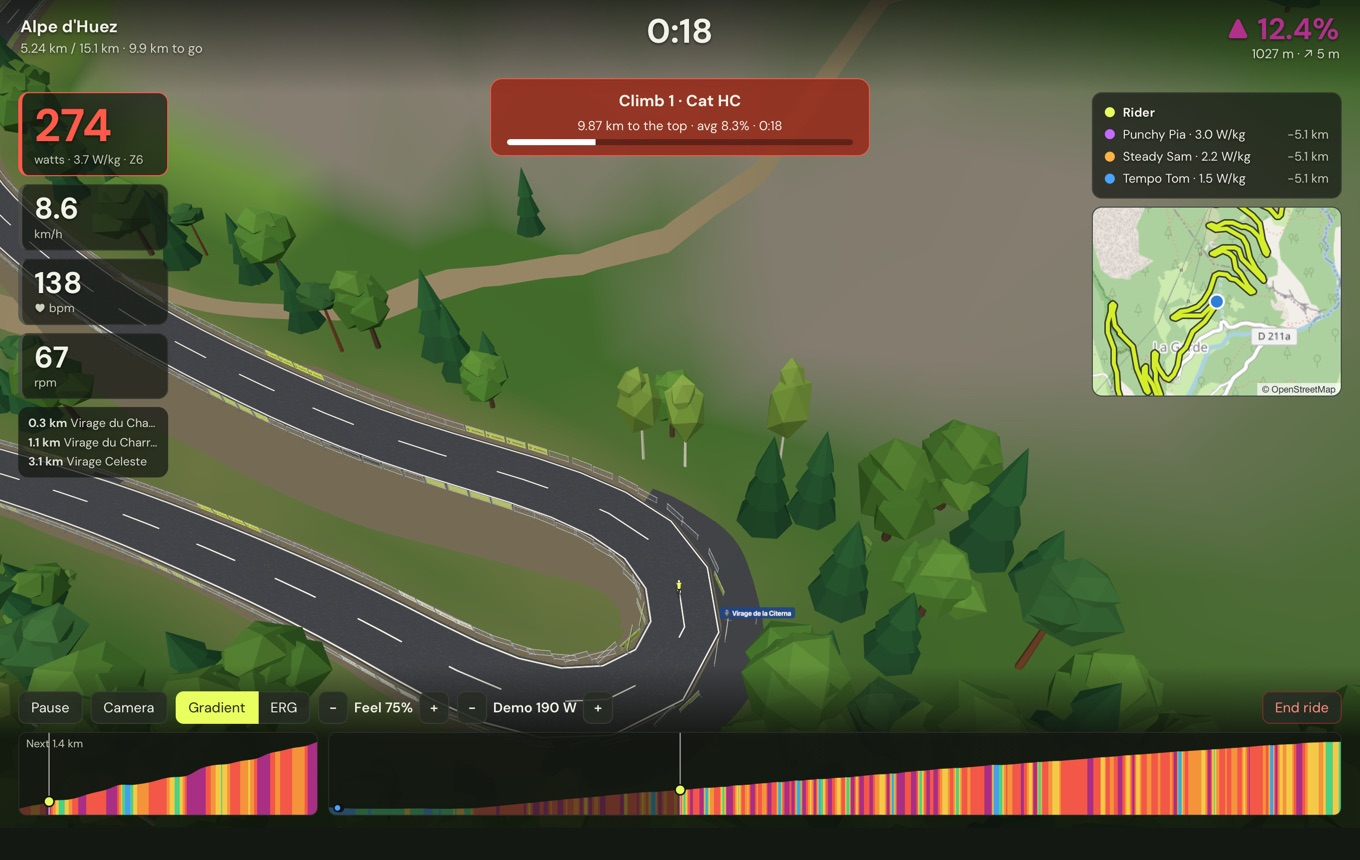
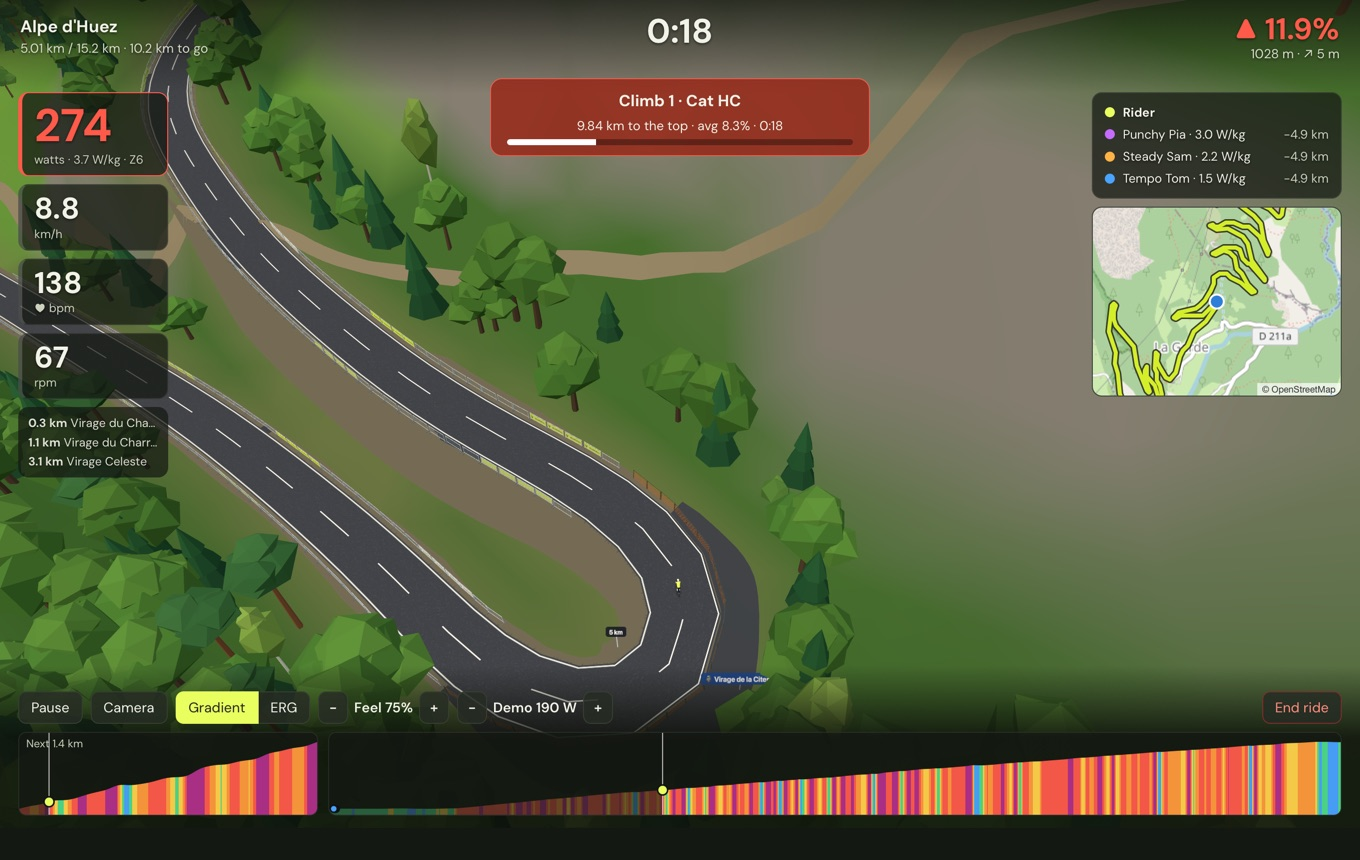
Release v0.3.8 (#64)
## What and why

Version 0.3.8: a netting fence round the outside of hairpins, in place
of the barrier sections that fanned apart and piled up there.

- **Hairpin fence** (`world/barriers.rs`). Rigid 2.5 m sections can't
follow a tight bend: on the outside they fanned apart and on the inside
they overlapped. Round a bend tighter than 30 m radius (measured over 4
m either side, so a single kink in the map doesn't count, and extended 5
m into the entry and exit) there are now no sections on either side.
Instead, 2 m panels of orange diamond netting on posts are laid evenly
along the outside edge, so neighbours meet end to end. Where one tight
bend runs straight into another the other way, the two fences meet
halfway. The fence is one more barrier look (`FENCE`), so both renderers
draw it with no changes.
- **Test:** `hairpins_get_a_fence_round_the_outside` builds a hairpin
and checks that the fence is only round the bend and only on its
outside, clear of the tarmac, with panels meeting end to end, that the
straights keep their barriers, and that the model stays inside its 2 m
panel.
- **Release:** version bumped in `package.json` (and its lockfile's two
version fields), `tauri.conf.json`, the three `Cargo.toml`s and
`Cargo.lock`, the Arch `PKGBUILD` and HANDOFF's status heading. *What's
new* in `packaging/RELEASE_NOTES.md` rewritten, and HANDOFF notes how
the fence is placed.
- **The overhead hairpins picture is retaken from 0.3.8.** It shows the
[…]

diff --git a/crates/core/src/world/barriers.rs b/crates/core/src/world/barriers.rs
@@ -6,6 +6,10 @@
 //! every `SECTION_M` along each side; the renderers draw the ones near the rider. Like a
 //! real one, each section is a rigid frame standing on its feet at both ends, so on a hill
 //! it leans with the road, and neighbours meet at the same height.
+//!
+//! Rigid sections can't follow a hairpin: on the outside they fan apart and on the inside
+//! they pile into each other. So round a tight bend there are none on either side, and a
+//! netting fence runs round the outside instead, panel by panel along the outside edge.
 
 use super::mesh::TriMesh;
 use super::{World, OPEN, ROAD_LIFT};
@@ -19,7 +23,19 @@ const SET_BACK: f64 = 0.55;
 
 /// Banner colours (sRGB), in the order of `look` 1, 2, 3, 4: the website's lime, paper, olive and pale lime.
 pub const BANNER_COLOURS: [[f64; 3]; 4] = [[0.914, 1.0, 0.376], [0.969, 0.969, 0.937], [0.667, 0.737, 0.314], [0.855, 0.910, 0.455]];
-pub const LOOKS: usize = 1 + BANNER_COLOURS.len();
+/// The look of a netting fence panel, the last one.
+pub const FENCE: usize = 1 + BANNER_COLOURS.len();
+pub const LOOKS: usize = FENCE + 1;
+
+/// A bend tighter than this radius (metres, at the centre line) gets a fence, not barriers.
+const TIGHT_RADIUS_M: f64 = 30.0;
+/// The bend is measured over this far either side, so a single kink in the map isn't one.
+const BEND_WINDOW_M: f64 = 4.0;
+/// The fence runs on this far beyond where the bend is tight, into its entry and exit.
+const BEND_MARGIN_M: f64 = 5.0;
+/// Length and height of one fence panel.
+const PANEL_M: f64 = 2.0;
+const FENCE_HEIGHT: f64 = 1.4;
 
 fn linear(c: [f64; 3]) -> [f32; 3] {
     c.map(|v| v.powf(2.2) as f32)
@@ -49,8 +65,12 @@ fn cuboid(mesh: &mut TriMesh, lo: [f64; 3], hi: [f64; 3], colour: [f32; 3]) {
 
 /// One barrier section in its own frame: centred on the origin, standing on y = 0, running
 /// along z, with the road on its −x side. `look` 0 is plain steel; 1… carry a banner facing
-/// the road, textured from the banner texture (white with the event name in grey) and tinted.
+/// the road, textured from the banner texture (white with the event name in grey) and tinted;
+/// `FENCE` is a panel of netting fence.
 pub fn barrier_model(look: usize) -> TriMesh {
+    if look == FENCE {
+        return fence_model();
+    }
     let mut m = TriMesh::default();
     let steel = linear([0.74, 0.76, 0.78]);
     let dark = linear([0.42, 0.44, 0.46]);
@@ -84,22 +104,171 @@ pub fn barrier_model(look: usize) -> TriMesh {
     m
 }
 
+/// One panel of netting fence, `PANEL_M` long: a post at each end, a top rail, and orange
+/// diamond netting between, seen from both sides.
+fn fence_model() -> TriMesh {
+    let mut m = TriMesh::default();
+    let post = linear([0.30, 0.33, 0.30]);
+    let net = linear([0.96, 0.45, 0.12]);
+    let half = PANEL_M / 2.0;
+    // Posts set in a little from each end, so where two panels meet their posts stand side by side.
+    for z in [-half + 0.04, half - 0.04] {
+        cuboid(&mut m, [-0.03, 0.0, z - 0.03], [0.03, FENCE_HEIGHT, z + 0.03], post);
+    }
+    cuboid(&mut m, [-0.018, FENCE_HEIGHT - 0.05, -half], [0.018, FENCE_HEIGHT - 0.014, half], post);
+    // The netting: two sets of diagonal strands, crossing in diamonds.
+    let (y0, y1, x) = (0.08, FENCE_HEIGHT - 0.05, -0.035);
+    let (gap, width) = (0.25, 0.024);
+    let mut strand = |a: [f64; 2], b: [f64; 2]| {
+        // a and b are (z, y); the strand is a thin flat ribbon between them.
+        let (dz, dy) = (b[0] - a[0], b[1] - a[1]);
+        let len = dz.hypot(dy);
+        let (nz, ny) = (-dy / len * width / 2.0, dz / len * width / 2.0);
+        for (x, facing) in [(x, -1.0), (x + 0.003, 1.0)] {
+            let p = [[x, a[1] + ny, a[0] + nz], [x, b[1] + ny, b[0] + nz], [x, b[1] - ny, b[0] - nz], [x, a[1] - ny, a[0] - nz]];
+            m.triangle([p[0], p[1], p[2]], [facing, 0.0, 0.0], [net; 3], [WHITE; 3]);
+            m.triangle([p[0], p[2], p[3]], [facing, 0.0, 0.0], [net; 3], [WHITE; 3]);
+        }
+    };
+    for slope in [1.0, -1.0] {
+        // Strands z = start + slope·(y − y0), for starts every `gap` along the panel and beyond it,
+        // clipped to the panel.
+        let mut start = -half - (y1 - y0);
+        while start < half + (y1 - y0) {
+            // The heights at which the strand reaches the two ends of the panel (less its width,
+            // so it stays within them).
+            let end = half - width;
+            let (ya, yb) = (y0 + (-end - start) / slope, y0 + (end - start) / slope);
+            let (lo, hi) = (ya.min(yb).max(y0), ya.max(yb).min(y1));
+            if hi - lo > 0.02 {
+                strand([start + slope * (lo - y0), lo], [start + slope * (hi - y0), hi]);
+            }
+            start += gap;
+        }
+    }
+    m
+}
+
+/// A stretch of road bending tighter than `TIGHT_RADIUS_M`, from and to metres along the
+/// route, with the side of its outside (1 is the route's right, as in `barriers`).
+struct Bend {
+    from: f64,
+    to: f64,
+    side: f64,
+}
+
 impl World {
+    /// The route's direction at sample `i`, smoothed over a couple of metres either way.
+    fn heading_at(&self, i: usize) -> (f64, f64) {
+        let r = &self.route;
+        let w = ((2.0 / r.step).round() as usize).max(1);
+        let (a, b) = (i.saturating_sub(w), (i + w).min(r.n - 1));
+        let (tx, tz) = (r.x[b] - r.x[a], r.z[b] - r.z[a]);
+        let len = tx.hypot(tz).max(1e-9);
+        (tx / len, tz / len)
+    }
+
+    /// The route's tight bends, in order along it.
+    fn tight_bends(&self) -> Vec<Bend> {
+        let r = &self.route;
+        let w = ((BEND_WINDOW_M / r.step).round() as usize).max(1);
+        let span = w as f64 * r.step;
+        let mut bends: Vec<Bend> = Vec::new();
+        for i in w..r.n.saturating_sub(w) {
+            let (tx, tz) = self.heading_at(i);
+            let curvature = ((r.x[i + w] - 2.0 * r.x[i] + r.x[i - w]) * tz - (r.z[i + w] - 2.0 * r.z[i] + r.z[i - w]) * tx) / (span * span);
+            if curvature.abs() * TIGHT_RADIUS_M < 1.0 {
+                continue;
+            }
+            let (d, side) = (i as f64 * r.step, -curvature.signum());
+            match bends.last_mut() {
+                Some(b) if b.side == side && d - BEND_MARGIN_M <= b.to => b.to = d + BEND_MARGIN_M,
+                _ => bends.push(Bend { from: (d - BEND_MARGIN_M).max(0.0), to: (d + BEND_MARGIN_M).min(r.total), side }),
+            }
+        }
+        // Where one bend runs straight into another the other way, they meet halfway, so neither
+        // fence reaches round the inside of the next bend.
+        for k in 1..bends.len() {
+            if bends[k].from < bends[k - 1].to {
+                let mid = (bends[k].from + bends[k - 1].to) / 2.0;
+                bends[k - 1].to = mid;
+                bends[k].from = mid;
+            }
+        }
+        bends
+    }
+
+    /// Netting fence panels round the outside of `bend`, as `barriers` gives them.
+    fn bend_fence(&self, bend: &Bend, blocked: &impl Fn(usize) -> bool, out: &mut Vec<[f32; 7]>) {
+        let r = &self.route;
+        // The outside edge every half metre (x, y, z, distance along the route), broken where
+        // the road has its own sides or is a trail.
+        let mut runs: Vec<Vec<[f64; 4]>> = vec![Vec::new()];
+        let mut d = bend.from;
+        while d <= bend.to {
+            let i = ((d / r.step).round() as usize).min(r.n - 1);
+            if blocked(i) {
+                if runs.last().is_some_and(|run| !run.is_empty()) {
+                    runs.push(Vec::new());
+                }
+            } else {
+                let (tx, tz) = self.heading_at(i);
+                let p = r.sample_at(d);
+                let off = bend.side * (self.half_width(i) + SET_BACK);
+                runs.last_mut().unwrap().push([p.x + tz * off, p.ele + ROAD_LIFT - 0.12, p.z - tx * off, d]);
+            }
+            d += 0.5;
+        }
+        for run in runs.iter().filter(|run| run.len() >= 2) {
+            // Distance along the edge at each point, and the point that far along it.
+            let mut along = vec![0.0];
+            for w in run.windows(2) {
+                along.push(along.last().unwrap() + (w[1][0] - w[0][0]).hypot(w[1][2] - w[0][2]));
+            }
+            let length = *along.last().unwrap();
+            let at = |s: f64| {
+                let k = along.partition_point(|&a| a < s).clamp(1, run.len() - 1);
+                let t = ((s - along[k - 1]) / (along[k] - along[k - 1]).max(1e-9)).clamp(0.0, 1.0);
+                std::array::from_fn::<f64, 4, _>(|c| run[k - 1][c] + (run[k][c] - run[k - 1][c]) * t)
+            };
+            if length < 1.0 {
+                continue;
+            }
+            // Panels evenly spaced along the edge, a whole number of them, so neighbours meet
+            // to within a few centimetres.
+            let panels = (length / PANEL_M).round().max(1.0) as usize;
+            let spacing = length / panels as f64;
+            for k in 0..panels {
+                let mid = (k as f64 + 0.5) * spacing;
+                let (a, b) = (at(mid - PANEL_M / 2.0), at(mid + PANEL_M / 2.0));
+                let (dx, dy, dz) = (b[0] - a[0], b[1] - a[1], b[2] - a[2]);
+                let climb = dy.atan2(dx.hypot(dz).max(1e-9));
+                let yaw = dx.atan2(dz) + if bend.side > 0.0 { 0.0 } else { std::f64::consts::PI };
+                let pitch = if bend.side > 0.0 { -climb } else { climb };
+                let c = std::array::from_fn::<f64, 4, _>(|i| (a[i] + b[i]) / 2.0);
+                out.push([c[0] as f32, c[1] as f32, c[2] as f32, yaw as f32, c[3] as f32, FENCE as f32, pitch as f32]);
+            }
+        }
+    }
+
     /// Barrier sections along both sides of the route, nearest first along it:
     /// `[x, y, z, yaw, distance along the route, look, pitch]` each, where the model is
     /// tipped by `pitch` about its own x axis (Three.js's sense: positive lowers its +z end)
     /// before being turned by `yaw`. None on bridges (they have parapets) or in tunnels, nor
-    /// on the inside of a bend too tight to stand them.
+    /// on the inside of a bend too tight to stand them; round a tight bend, fence panels
+    /// (look `FENCE`) on the outside instead.
     pub fn barriers(&self) -> Vec<[f32; 7]> {
         let r = &self.route;
         let kinds = self.field.kinds();
+        let blocked = |i: usize| kinds.get(i).is_some_and(|&kind| kind != OPEN) || self.scene.trails.get(i).is_some_and(Option::is_some);
+        let bends = self.tight_bends();
         let mut out = Vec::new();
         let count = ((r.total - 8.0) / SECTION_M).floor().max(0.0) as usize;
         for k in 0..count {
             let d = 4.0 + (k as f64 + 0.5) * SECTION_M;
             let i = ((d / r.step).round() as usize).min(r.n - 1);
             // None on bridges and in tunnels (they have their own sides), nor along a trail.
-            if kinds.get(i).is_some_and(|&kind| kind != OPEN) || self.scene.trails.get(i).is_some_and(Option::is_some) {
+            if blocked(i) || bends.iter().any(|b| d + LENGTH / 2.0 > b.from && d - LENGTH / 2.0 < b.to) {
                 continue;
             }
             let (a, b) = (i.saturating_sub(1), (i + 1).min(r.n - 1));
@@ -132,6 +301,10 @@ impl World {
                 out.push([x as f32, y as f32, z as f32, yaw as f32, d as f32, look as f32, pitch as f32]);
             }
         }
+        for bend in &bends {
+            self.bend_fence(bend, &blocked, &mut out);
+        }
+        out.sort_by(|a, b| a[4].total_cmp(&b[4]));
         out
     }
 }

diff --git a/crates/core/tests/core.rs b/crates/core/tests/core.rs
@@ -486,6 +486,59 @@ fn hairpin_ground_never_buries_the_lower_arm() {
     }
 }
 
+#[test]
+fn hairpins_get_a_fence_round_the_outside() {
+    use velopopuli_core::world::{barrier_model, BARRIER_FENCE};
+    // North for 300 m, a U-turn of 12 m radius, and back south: a hairpin.
+    let m_lon = M_PER_DEG * 45f64.to_radians().cos();
+    let at = |x: f64, z: f64| RawPoint { lat: 45.0 + z / M_PER_DEG, lon: 7.0 + x / m_lon, ele: Some(100.0) };
+    let mut pts: Vec<RawPoint> = (0..=30).map(|i| at(0.0, i as f64 * 10.0)).collect();
+    pts.extend((1..12).map(|k| {
+        let a = std::f64::consts::PI * k as f64 / 12.0;
+        at(12.0 - 12.0 * a.cos(), 300.0 + 12.0 * a.sin())
+    }));
+    pts.extend((0..=30).map(|i| at(24.0, 300.0 - i as f64 * 10.0)));
+    let route = Arc::new(build_route("hairpin", &pts).unwrap());
+    let world = World::new(route.clone(), None, 0.0);
+    let b = world.barriers();
+    assert!(b.windows(2).all(|w| w[0][4] <= w[1][4]));
+    let fence: Vec<_> = b.iter().filter(|s| s[5] as usize == BARRIER_FENCE).collect();
+    // Only round the bend (about 300 to 340 m along), none on the straights.
+    assert!(fence.len() >= 20, "{}", fence.len());
+    assert!(fence.iter().all(|s| s[4] > 280.0 && s[4] < 360.0), "{:?}", fence.iter().map(|s| s[4]).collect::<Vec<_>>());
+    // No rigid sections at the apex of the bend.
+    assert!(!b.iter().any(|s| s[5] as usize != BARRIER_FENCE && s[4] > 305.0 && s[4] < 335.0));
+    // Straights still have their barriers on both sides.
+    assert!(b.iter().filter(|s| s[4] > 100.0 && s[4] < 200.0).count() >= 70);
+    // Every panel is clear of the road, and on the outside: farther from the middle of the
+    // bend than the nearest bit of road is.
+    let arc: Vec<usize> = (0..route.n).filter(|&i| (i as f64 * route.step - 320.0).abs() < 20.0).collect();
+    let (cx, cz) = (arc.iter().map(|&i| route.x[i]).sum::<f64>() / arc.len() as f64, arc.iter().map(|&i| route.z[i]).sum::<f64>() / arc.len() as f64);
+    for s in fence.iter() {
+        let (x, z) = (s[0] as f64, s[2] as f64);
+        let near = (0..route.n).min_by(|&a, &b| (route.x[a] - x).hypot(route.z[a] - z).total_cmp(&(route.x[b] - x).hypot(route.z[b] - z))).unwrap();
+        let clear = (route.x[near] - x).hypot(route.z[near] - z);
+        assert!(clear > world.half_width(near) + 0.15, "panel at {} only {clear} m from the road", s[4]);
+        if (305.0..335.0).contains(&s[4]) {
+            assert!((x - cx).hypot(z - cz) > (route.x[near] - cx).hypot(route.z[near] - cz), "panel at {} is inside the bend", s[4]);
+        }
+    }
+    let ends = |s: &[f32; 7]| {
+        let (half, yaw) = (1.0f64, s[3] as f64);
+        [-half, half].map(|z| (s[0] as f64 + z * yaw.sin(), s[2] as f64 + z * yaw.cos()))
+    };
+    // Neighbouring panels meet end to end, with no gap and no pile-up.
+    for w in fence.windows(2) {
+        let (a, b) = (ends(w[0]), ends(w[1]));
+        let gap = [a[0], a[1]].iter().flat_map(|p| [b[0], b[1]].map(|q| (p.0 - q.0).hypot(p.1 - q.1))).fold(f64::MAX, f64::min);
+        assert!(gap < 0.15, "{gap} between panels at {} and {}", w[0][4], w[1][4]);
+    }
+    // The fence's model: posts and netting, standing on the ground, 2 m long.
+    let m = barrier_model(BARRIER_FENCE);
+    assert!(m.vertices() > 300);
+    assert!(m.positions.chunks(3).all(|p| p[1] >= 0.0 && p[1] <= 1.41 && p[2].abs() <= 1.0 + 1e-6));
+}
+
 mod buildings {
     use super::*;
     use velopopuli_core::world::{overpass_query, parse_overpass, Footprint};

diff --git a/crates/core/src/world/mod.rs b/crates/core/src/world/mod.rs
@@ -18,7 +18,7 @@ mod structures;
 mod surface;
 mod trees;
 
-pub use barriers::{barrier_model, BANNER_COLOURS, LOOKS as BARRIER_LOOKS, SECTION_M as BARRIER_SECTION_M};
+pub use barriers::{barrier_model, BANNER_COLOURS, FENCE as BARRIER_FENCE, LOOKS as BARRIER_LOOKS, SECTION_M as BARRIER_SECTION_M};
 pub use buildings::{overpass_query, parse_overpass, BuildingMesh, Buildings, Footprint};
 pub use dem::{align_dem, align_dem_with, Dem, TILE};
 pub use fields::{parse_boundaries, Boundary, MappedBoundary};

diff --git a/HANDOFF.md b/HANDOFF.md
@@ -12,7 +12,7 @@ A free, open-source indoor-cycling app: import any GPX route, ride it on a smart
 
 It started on 2026-10-13 as "WinterMiles" (an icTrainer alternative for riding GPX routes over winter), was rewritten the same day from Electron/TypeScript into Rust + Tauri for low overhead, renamed "Velo Populi" and then "VeloPopuli" to match the website.
 
-## 2. Where it stands (November 2026, v0.3.7)
+## 2. Where it stands (November 2026, v0.3.8)
 
 **Solid and tested:** route building (GPX parsing, resampling, smoothing, climb detection), physics, ride recording and FIT export, workouts (.zwo/.erg/.mrc and built-ins), fitness maths, gamification, the 3D world (terrain with roads cut into hillsides, buildings, forests of six kinds of tree with sprites in the distance, field boundaries and hedge-banked lanes, water, the surrounding road network, bridges, tunnels, overpasses, road surface/width/markings, race barriers that lean with the road, landmarks, weather), the virtual-gear maths, diagnostics, the relay. 100 automated tests (plus two that need the network and are skipped by default), plus visual checks through the automated smoke harness (section 6).
 
@@ -160,6 +160,6 @@ CI also builds every push to `main`; installers can be downloaded from the run's
 - **Field boundaries are drawn with the buildings** (`fields.rs`, in `chunk()`): into the buildings mesh, in plain vertex colours (uv 0,0 is a white corner of the window texture), so neither renderer needed a change. Made-up fields are a jittered grid turned to an angle fixed per ride, in world coordinates, and a piece belongs to the chunk holding its middle, so chunks join without seams; the kind of an edge is decided from the terrain at the middle of the whole edge (`field.surroundings`), not the chunk's own grid, for the same reason. They are only made in chunks within `FIELDS_REACH` (1 km) of the route: hedge country adds a few thousand triangles a chunk. Mapped boundaries come in the road-tags Overpass query (bumping `WAY_TAGS` refetches them); made-up ones keep out of the 25 m squares (and neighbours) that a mapped one passes through. Holloways are `Boundary::HedgeBank` runs along the route (offset `half_width + ROUTE_BANK_OFFSET`, clear of the barriers at `half_width + 0.55`) and along side minor roads and tracks, cut into `PIECE`-long pieces before a chunk claims them: a road strip can be 20 m long, and a piece reaching past the chunk's padded height grid stands on clamped heights (that drew a slab across the sky once). In hedge country, mapped boundaries within 9 m of the route or 3 m of a side lane are dropped in favour of the banks.
 - **The ground beside the route has a road's cross-section** (`bank` with `Bank::ROUTE`, in `height.rs`): level out to `FLAT` (16 m from the centreline) on the uphill side, so no 10 m terrain cell can tilt up over the road's edge, but only to `FILL_FROM` (8 m) on the downhill side, where a cell leaning down goes under the road's embankment and retaining wall. Then a cutting (`CUT_SLOPE`, ~50°, shows as rock) or an embankment (`FILL_SLOPE`, ~34°), each at most `FACE_MAX` (7 m) high; the rest of any difference is blended away over `BLEND` as before. Other roads and railways get the same (`Bank::side`: level a cell past each edge on both sides, since they are draped on the mesh with nothing to cover a lean; faces up to 4 m), in the chunk builder rather than the height field, nearest way winning, fading out within 40 m of the route; paths, footways and service roads (`RoadKind::banked`) don't. Buildings stand on the height field, not the mesh, but their walls reach 1.5 m below the lowest corner, so a cut beside one shows more wall rather than a gap. The cap matters: coarse terrain data and the route's smoothed elevation disagree by tens of metres round hairpins, and uncapped faces turned that into bare cliffs with no trees (trees aren't planted where a cell drops more than 8 m).
 - **Trees are 3D near the camera and sprites beyond about 200 m:** a chunk's trees are `[x, y, z, yaw, width, height, kind, shade]`, grouped by kind; each kind is one set of instances drawn twice, as its 3D model (`tree_model`) and as a camera-facing quad (`sprite_frame`) textured from an atlas that the page renders from the models at ride start (`trees.ts`) and hands to the native renderer as the `trees` texture. The vertex shaders split the trees one by one at each tree's own distance (`SPRITES_FROM` ± `SPRITE_SPREAD`/2, from a hash of its position), so the two copies of the rule — `spriteFrom` in `trees.ts` and `sprite_from` in `shader.wgsl` — must stay identical, or trees vanish or double at the switch. Atlas cells are cleared one at a time (`target.scissorTest`): three.js clears the whole target on every render otherwise.
-- **Barrier sections lean with the road:** each is placed by `[x, y, z, yaw, distance, look, pitch]`, tipped about its own x axis first and then turned (`'YXZ'` in three.js, `vs_barrier` in the native shader), so both ends stand on the road and neighbours meet. A new renderer of them must apply the pitch, and in that order.
+- **Barrier sections lean with the road:** each is placed by `[x, y, z, yaw, distance, look, pitch]`, tipped about its own x axis first and then turned (`'YXZ'` in three.js, `vs_barrier` in the native shader), so both ends stand on the road and neighbours meet. A new renderer of them must apply the pitch, and in that order. Round a bend tighter than 30 m radius there are no sections; instead fence panels (look `FENCE`, orange netting) are laid evenly along the outside edge, so they meet end to end (`tight_bends` and `bend_fence` in `barriers.rs`). They are just another look, so neither renderer knows about them.
 - **Berms tilt the riding surface and fords lower it:** anything standing *on* the route's surface (riders) must add `World::bank_at` (Rust) or `bankAt()` (page) — the lift at its offset (negative in a ford), and the roll. The inside edge of a berm is at the centre-line height; the outside is raised. The route's own `ele` is never changed by either, so gradients and physics are unaffected.
 - **Road looks are numbered across three places:** a new look needs its constant in `surface.rs`, its texture in `SURFACES` in `surfaces.ts` (same order), and its name in the native renderer's match in `native/mod.rs`. Today: 0–4 surfaces, 5 lane, 6 timber, 7 singletrack, 8 ford.

diff --git a/packaging/RELEASE_NOTES.md b/packaging/RELEASE_NOTES.md
@@ -2,13 +2,10 @@
 
 > This is an early release. The 3D world, physics, workouts and progress tracking are well tested; real trainers and sensors are only now being tried, and the Windows and Linux builds have had little use. If something doesn't work, the app's **Report a problem → Report on GitHub** builds a diagnostics report for you — please send one.
 
-## What's new in 0.3.7
+## What's new in 0.3.8
 
-- **Roads cut into the hillside.** On a mountainside your road now sits on a level shelf, with a rocky cutting rising above it and a grassy embankment falling away below, instead of the slope simply blending into the road.
-- **Side roads and railways too.** The other roads, tracks and railways around you are level across, cut into slopes and carried on embankments. Footpaths and driveways still follow the ground.
-- **Field boundaries.** Open country is divided into fields: the hedges, walls and fences mapped near your route, and elsewhere fields in the style of the region — hedgerows with the odd tree in Britain, Ireland and north-west France, dry-stone walls on their hills and round the Mediterranean, timber fences on mountain pastures and in Scandinavia.
-- **Holloways.** In hedge country, narrow lanes, yours included, run between high hedge banks, with gaps for junctions and gateways.
-- The ride screenshots and the animation in the README are fresh from this version.
+- **Netting round hairpins.** On a tight bend the steel barriers used to fan apart on the outside and pile into each other on the inside. Now an orange netting fence on posts runs smoothly round the outside of the bend, and the inside is left open, as on a real climb. The straights keep their barriers and banners.
+- The hairpins picture in the README is fresh from this version.
 
 ## Download
 
